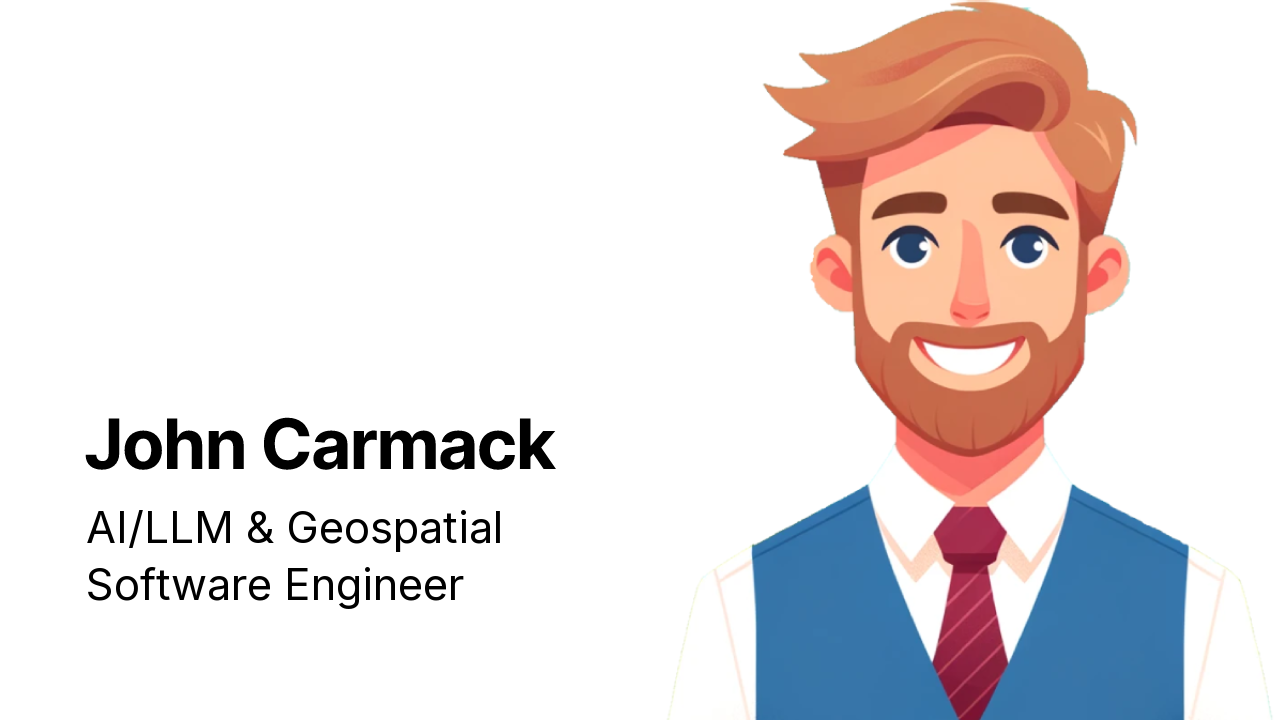
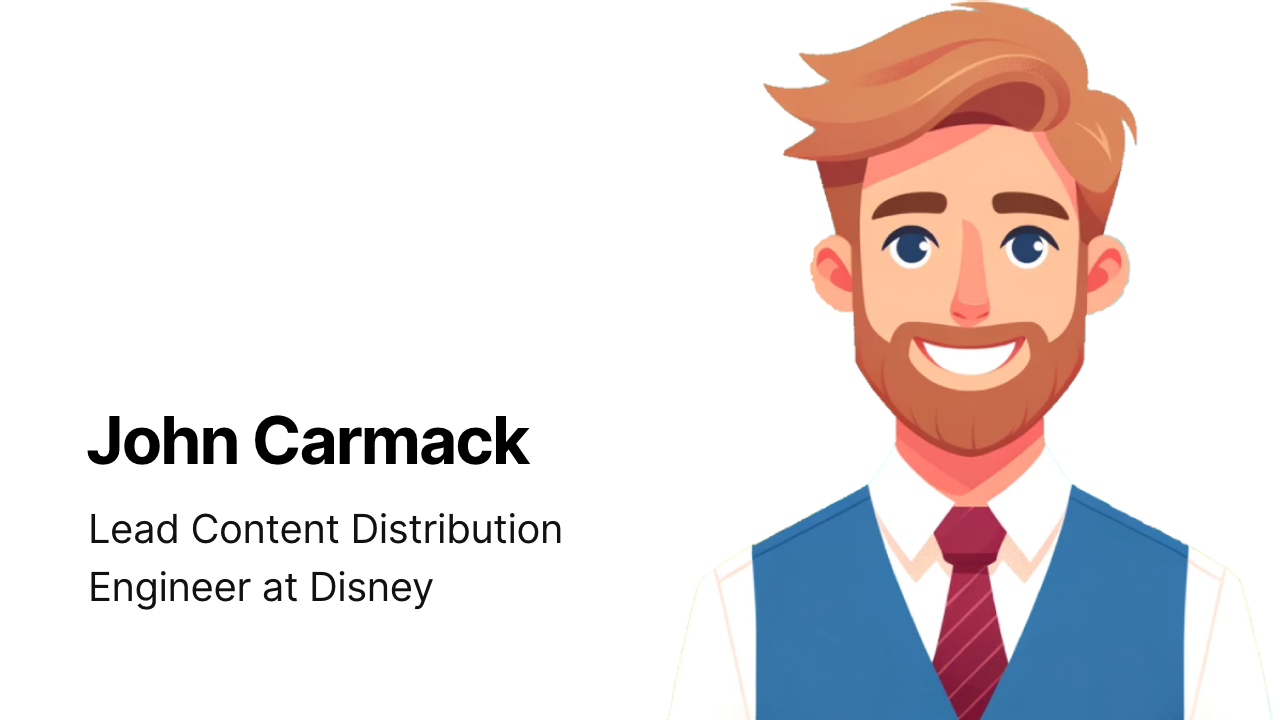
site: rewrite the hero and metadata for the Disney role (#63)
The hero, the title, the description, the Open Graph and Twitter titles, and the Person schema now say Lead Content Distribution Engineer at Disney and MapLibre voting member. The schema gains a worksFor, and CDN, HTTP caching and vector tile servers join knowsAbout. The Open Graph card is re-rendered with the same portrait and the new subtitle.

Changed region(s): [[0.0625, 0.5806, 0.4375, 0.6722], [0.0625, 0.7028, 0.4375, 0.7639], [0.0625, 0.7944, 0.375, 0.8556]]

diff --git a/index.html b/index.html
@@ -4,10 +4,10 @@
     <meta charset="UTF-8" />
     <meta name="viewport" content="width=device-width, initial-scale=1.0" />
 
-    <title>John Carmack - AI/LLM & Geospatial Software Engineer</title>
+    <title>John Carmack - Lead Content Distribution Engineer at Disney</title>
     <meta
       name="description"
-      content="Not the Doom guy. Different guy: software engineer building production LLM/AI systems and geospatial/GPU visualization with MapLibre, deck.gl, and Rust."
+      content="Not the Doom guy. Different guy: Lead Content Distribution Engineer at Disney, MapLibre voting member, Rust and TypeScript. Open-source receipts, shipped apps."
     />
     <meta name="author" content="John Carmack" />
     <meta
@@ -33,10 +33,10 @@
     <meta property="og:locale" content="en_US" />
     <meta property="og:url" content="https://johncarmack.com/" />
     <meta property="og:site_name" content="John Carmack" />
-    <meta property="og:title" content="John Carmack - AI/LLM & Geospatial Software Engineer" />
+    <meta property="og:title" content="John Carmack - Lead Content Distribution Engineer at Disney" />
     <meta
       property="og:description"
-      content="Not the Doom guy. Different guy: software engineer building production LLM/AI systems and geospatial/GPU visualization with MapLibre, deck.gl, and Rust."
+      content="Not the Doom guy. Different guy: Lead Content Distribution Engineer at Disney, MapLibre voting member, Rust and TypeScript. Open-source receipts, shipped apps."
     />
     <meta property="og:image" content="https://johncarmack.com/opengraph-image.png" />
     <meta property="og:image:width" content="1280" />
@@ -47,13 +47,13 @@
     <meta name="twitter:card" content="summary_large_image" />
     <meta name="twitter:site" content="@johncarmack" />
     <meta name="twitter:creator" content="@johncarmack" />
-    <meta name="twitter:title" content="John Carmack - AI/LLM & Geospatial Software Engineer" />
+    <meta name="twitter:title" content="John Carmack - Lead Content Distribution Engineer at Disney" />
     <meta
       name="twitter:description"
-      content="Not the Doom guy. Different guy: software engineer building production LLM/AI systems and geospatial/GPU visualization with MapLibre, deck.gl, and Rust."
+      content="Not the Doom guy. Different guy: Lead Content Distribution Engineer at Disney, MapLibre voting member, Rust and TypeScript. Open-source receipts, shipped apps."
     />
     <meta name="twitter:image" content="https://johncarmack.com/opengraph-image.png" />
-    <meta name="twitter:image:alt" content="John Carmack - AI/LLM & Geospatial Software Engineer" />
+    <meta name="twitter:image:alt" content="John Carmack - Lead Content Distribution Engineer at Disney" />
 
     <link rel="canonical" href="https://johncarmack.com/" />
 

diff --git a/src/lib/structured-data.ts b/src/lib/structured-data.ts
@@ -21,7 +21,7 @@ const LANGUAGES = new Set(["Rust", "TypeScript", "JavaScript", "Python"]);
 
 // The Person's disambiguator, also published at /llms.txt (src/lib/llms-txt.ts).
 export const disambiguatingDescription =
-  "John M. Carmack, a software engineer (GitHub: johncarmack1984) focused on AI/LLM and geospatial/GPU engineering. Not John D. Carmack, the id Software / Oculus founder of the same name.";
+  "John M. Carmack, a software engineer (GitHub: johncarmack1984): Lead Content Distribution Engineer at Disney and a MapLibre voting member, writing Rust and TypeScript. Not John D. Carmack, the id Software / Oculus founder of the same name.";
 
 const absolute = (path: string) =>
   path.startsWith("http") ? path : `${SITE}${path}`;
@@ -90,11 +90,18 @@ export function structuredData(buildDate: string) {
         alternateName: ["John M. Carmack", "johncarmack1984"],
         url: `${SITE}/`,
         image: absolute(john),
-        jobTitle: "AI/LLM & Geospatial Software Engineer",
+        jobTitle: "Lead Content Distribution Engineer",
+        worksFor: {
+          "@type": "Organization",
+          name: "The Walt Disney Company",
+        },
         description:
-          "Software engineer building production LLM/AI systems and geospatial/GPU visualization with MapLibre, deck.gl, and Rust.",
+          "Lead Content Distribution Engineer at Disney and a MapLibre voting member. Open source in Rust and TypeScript: the Martin tile server, MapLibre GL JS, and MapLibre Native.",
         disambiguatingDescription,
         knowsAbout: [
+          "Content delivery networks (CDN)",
+          "HTTP caching",
+          "Vector tile servers",
           "Large language models",
           "Production AI systems",
           "Retrieval-augmented generation",

diff --git a/src/components/hero/hero.tsx b/src/components/hero/hero.tsx
@@ -2,7 +2,7 @@ import HeroImage from "@/components/hero/image";
 
 // Exported for src/lib/llms-txt.ts, which publishes the same words at /llms.txt.
 export const heroIntro =
-  "I'm a software engineer focused on production LLM/AI and geospatial/GPU systems. Rust and TypeScript, deck.gl and luma.gl, and the cloud infrastructure that runs them. Lately it's MapLibre: I'm a voting member, and most of my PRs land in the Martin tile server and MapLibre GL JS. Before that: primary author of a safety-critical aviation desktop application, lone architect of a real-time analytics platform.";
+  "I'm a software engineer, mostly in Rust and TypeScript. By day, Lead Content Distribution Engineer at Disney. My own time goes to MapLibre, where I'm a voting member and most of my PRs land in the Martin tile server, MapLibre GL JS, and MapLibre Native. Before Disney: primary author of a safety-critical aviation desktop application, lone architect of a real-time analytics platform.";
 
 function HeroText() {
   return (
